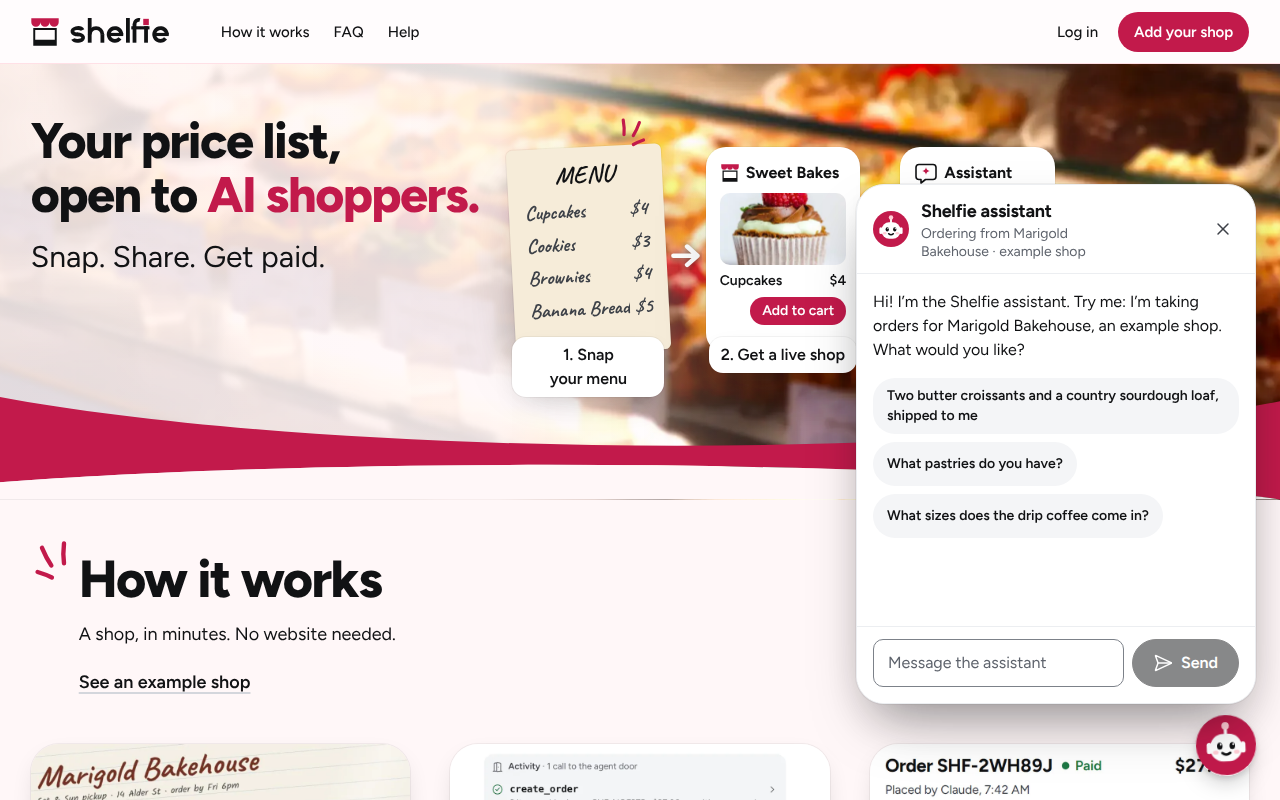
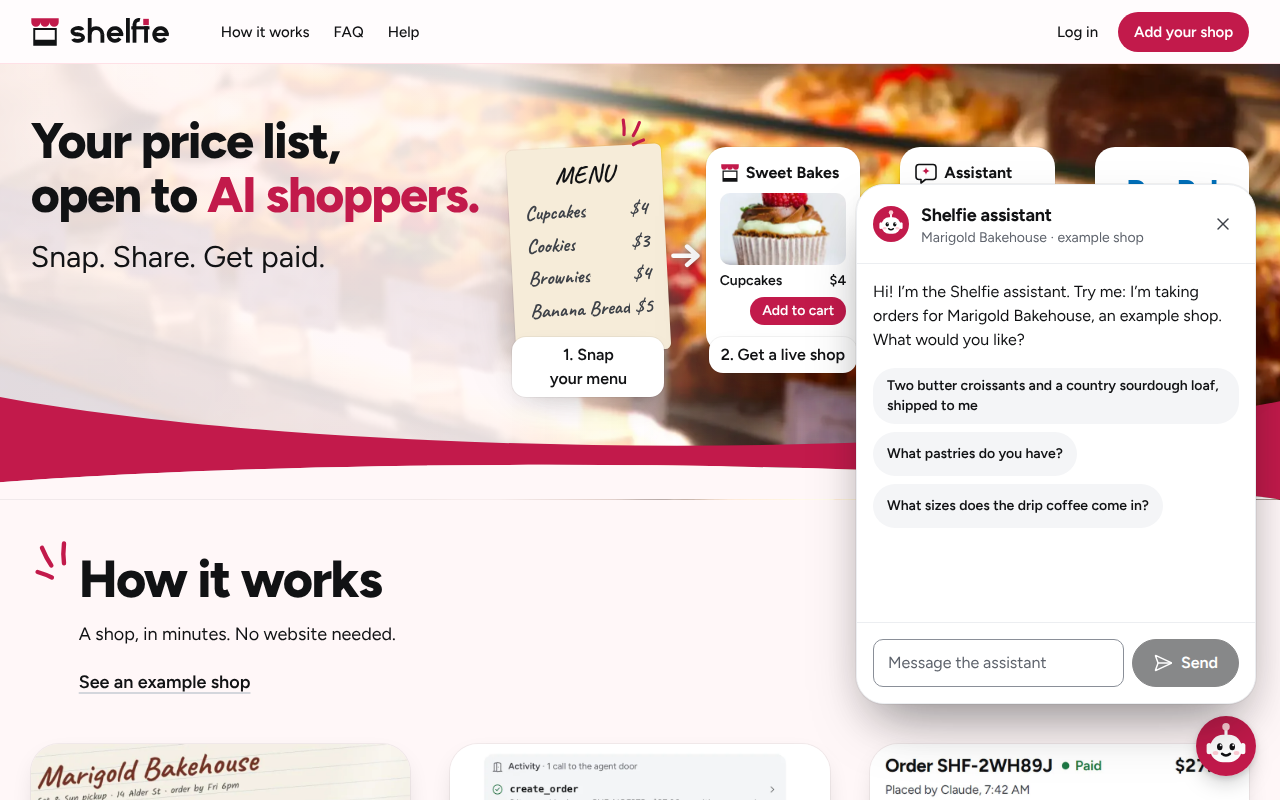
Home chat: 16 px vertical insets in header and footer, one-line desktop subtitle, re-measured previews

diff --git a/src/components/landing/home-chat.css b/src/components/landing/home-chat.css
@@ -97,11 +97,11 @@ body:has([aria-controls="band-menu"][aria-expanded="true"]) [data-home-chat] { v
    sitting on the composer with an empty band above it (a long one still scrolls to its newest line); the starters are
    compact chips that wrap in rows; one 16 px inset on every side of every part; the message box and a full-size Send
    share one row. The shop page's dock keeps its own bottom-anchored log and full-width starters. */
-.home-chat-panel [data-assistant-header] { min-height: 0; padding: 0.75rem 1rem; gap: 0.75rem; }
+.home-chat-panel [data-assistant-header] { min-height: 0; padding: 1rem; gap: 0.75rem; }
 .home-chat-panel [data-assistant-header] > button { margin-right: -0.375rem; }
 .home-chat-panel [data-assistant-log] { justify-content: flex-start; }
 .home-chat-panel [data-assistant-header] + div { padding: 1rem; scrollbar-gutter: auto; }
-.home-chat-panel [data-assistant-footer] { padding: 0.75rem 1rem 1rem; }
+.home-chat-panel [data-assistant-footer] { padding: 1rem; }
 .home-chat-panel [data-starters] { flex-direction: row; flex-wrap: wrap; gap: 0.5rem; }
 .home-chat-panel [data-starters] > li { max-width: 100%; }
 .home-chat-panel [data-starters] button {

diff --git a/src/components/landing/HomeChat.tsx b/src/components/landing/HomeChat.tsx
@@ -170,7 +170,8 @@ export function HomeChat({ shop, autoOpen }: { shop: HomeChatShop; autoOpen: boo
       inputRef={inputRef}
       takesOrders
       onClose={hide}
-      subtitle={`Ordering from ${shop.name}\u00a0·\u00a0example shop`}
+      // The desktop panel's header keeps to one line (the greeting already says it takes orders); the phone sheet keeps its wording.
+      subtitle={isDesktop ? `${shop.name}\u00a0·\u00a0example shop` : `Ordering from ${shop.name}\u00a0·\u00a0example shop`}
       mark={<BotMark className="size-9" />}
       greeting={greeting}
       closeLabel="Close the chat"

diff --git a/e2e/home-chat.spec.ts b/e2e/home-chat.spec.ts
@@ -108,7 +108,7 @@ test.describe('at 1440 px', () => {
     await launcher.click();
     const chat = panel(page);
     await expect(chat).toBeVisible();
-    await expect(chat.getByText('Ordering from Marigold Bakehouse · example shop')).toBeVisible();
+    await expect(chat.getByText('Marigold Bakehouse · example shop', { exact: true })).toBeVisible();
     await expect(chat.getByText(GREETING)).toBeVisible();
     const starters = chat.getByRole('list', { name: 'Try asking' }).getByRole('button');
     expect(await starters.count()).toBeGreaterThanOrEqual(2);

diff --git a/docs/judge/chat-r8.md b/docs/judge/chat-r8.md
@@ -15,11 +15,11 @@ padding). The h1 rect is its box (`w-fit` since this run, so it is the text's ex
 
 | Viewport | Panel w x h | Header / log / footer h | Padding header · log · footer | Greeting gap | Starter chips (w/lines) | Box + Send | Right/bottom edges | h1 rect vs panel |
 |---|---|---|---|---|---|---|---|---|
-| 1280x800 | 400 x 520 | 89 / 352 / 77 | 12px/16px/12px/16px · 16px/16px/16px/16px · 12px/16px/16px/16px | 16 | 366 px/2 lines, 204 px/1 line, 290 px/1 line | 251x48 + 107x48, one row: yes | panel 24/96, launcher 24/24 | 31..479 x 115..223: clear |
-| 1440x900 | 400 x 520 | 89 / 352 / 77 | 12px/16px/12px/16px · 16px/16px/16px/16px · 12px/16px/16px/16px | 16 | 366 px/2 lines, 204 px/1 line, 290 px/1 line | 251x48 + 107x48, one row: yes | panel 24/96, launcher 24/24 | 35..538 x 120..241: clear |
-| 1920x1080 | 400 x 520 | 89 / 352 / 77 | 12px/16px/12px/16px · 16px/16px/16px/16px · 12px/16px/16px/16px | 16 | 366 px/2 lines, 204 px/1 line, 290 px/1 line | 251x48 + 107x48, one row: yes | panel 24/96, launcher 24/24 | 280..783 x 120..241: clear |
-| 1366x657 | 400 x 441 | 89 / 273 / 77 | 12px/16px/12px/16px · 16px/16px/16px/16px · 12px/16px/16px/16px | 16 | 366 px/2 lines, 204 px/1 line, 290 px/1 line | 251x48 + 107x48, one row: yes | panel 24/96, launcher 24/24 | 33..512 x 119..234: clear |
-| 1024x768 | 400 x 520 | 89 / 352 / 77 | 12px/16px/12px/16px · 16px/16px/16px/16px · 12px/16px/16px/16px | 16 | 366 px/2 lines, 204 px/1 line, 290 px/1 line | 251x48 + 107x48, one row: yes | panel 24/96, launcher 24/24 | 25..492 x 105..217: clear |
+| 1280x800 | 400 x 520 | 79 / 358 / 81 | 16px · 16px · 16px (all sides) | 16 | 366 px/2 lines, 204 px/1 line, 290 px/1 line | 251x48 + 107x48, one row: yes | panel 24/96, launcher 24/24 | 31..479 x 115..223: clear |
+| 1440x900 | 400 x 520 | 79 / 358 / 81 | 16px · 16px · 16px (all sides) | 16 | 366 px/2 lines, 204 px/1 line, 290 px/1 line | 251x48 + 107x48, one row: yes | panel 24/96, launcher 24/24 | 35..538 x 120..241: clear |
+| 1920x1080 | 400 x 520 | 79 / 358 / 81 | 16px · 16px · 16px (all sides) | 16 | 366 px/2 lines, 204 px/1 line, 290 px/1 line | 251x48 + 107x48, one row: yes | panel 24/96, launcher 24/24 | 280..783 x 120..241: clear |
+| 1366x657 | 400 x 441 | 79 / 279 / 81 | 16px · 16px · 16px (all sides) | 16 | 366 px/2 lines, 204 px/1 line, 290 px/1 line | 251x48 + 107x48, one row: yes | panel 24/96, launcher 24/24 | 33..512 x 119..234: clear |
+| 1024x768 | 400 x 520 | 79 / 358 / 81 | 16px · 16px · 16px (all sides) | 16 | 366 px/2 lines, 204 px/1 line, 290 px/1 line | 251x48 + 107x48, one row: yes | panel 24/96, launcher 24/24 | 25..492 x 105..217: clear |
 | 390x844 | 390 x 717 | 85 / 559 / 73 | 10px/20px/10px/20px · 16px/20px/16px/20px · 12px/20px/12px/20px | 291 | 335 px/2 lines, 335 px/1 line, 335 px/1 line | 235x48 + 107x44, one row: yes | panel 0/0, launcher 20/20 | 20..343 x 92..170: overlaps |
 
 Notes:
@@ -29,7 +29,7 @@ Notes:
 - 1366 x 657: the panel is shortened to 441 px so it stays under the sticky header (its top is 120, header bottom 64);
   it does not auto-open on a screen under 700 px tall (unchanged).
 - 1024 x 768: before `w-fit` the h1 box spanned 25..1000 and met the panel, though its text ended at 492; now clear.
-- Proportions: header 17 %, log 68 %, footer 15 % of the 520 px panel.
+- Proportions: header 15 %, log 69 %, footer 16 % of the 520 px panel.
 - 390 x 844 is the phone bottom sheet, unchanged by design (it is a modal sheet over the hero, so the h1 overlap is
   expected; its log stays bottom-anchored near the thumb).
 - With a conversation (recorded first turn replayed), the log scrolls (scrollHeight 562 in a 296 px viewport) and the
@@ -40,3 +40,13 @@ h1; greeting within 20 px of the header; right edges equal; box and Send bottom-
 no starter chip taller than 60 px.
 
 Screens: `docs/preview/chat-1280.png`, `chat-1440.png`, `chat-1920.png`, `chat-390.png` (production build).
+
+## Fix round (after the independent check)
+
+The checker found 12 px vertical padding in the header and footer (brief: 16 to 20 px) and a 89 px header because the
+subtitle wrapped. Now the header and footer pad 16 px on every side and the desktop subtitle is "Marigold Bakehouse ·
+example shop" on one line: header 89 -> 79 px, footer 77 -> 81 px, log 352 -> 358 px (273 -> 279 px at 1366x657, where
+the content is now 280 px in a 279 px log, a sub-pixel difference instead of 7 px clipped). The table above is the
+re-measured state (production build, `/tmp/r8fix/m.mjs`). Unchanged and deliberate: the panel ends 96 px from the
+bottom, stacked 12 px above the launcher (shared right edge, 24 px); it covers the lower part of the hero's step chain
+at 1024 to 1440 px (not the h1), as the old panel did. Phone sheet (390x844): unchanged (header 85, Send 44).

diff --git a/docs/DESIGN.md b/docs/DESIGN.md
@@ -231,7 +231,7 @@ Built from the owner's reference image (run 6), and the one place the rules abov
 - **Type:** body at least 16 px on phones and 18 px from 1280 px, meta at least 14 px. The handwriting on the paper menu (Caveat) is the only other typeface, and only there.
 - **Icons and step images:** How it works shows no icons: each step has one focal region of Shelfie itself, cropped about 480 CSS px wide so its text reads at every width (`public/landing/step-*.webp`, 960×720, 4:3, rounded `rounded-2xl` frame with `shadow-md`, lazy `<img>` with width and height), stacked above its text up to `lg` (at most `max-w-md`) and in three columns from `lg`, since three columns at `md` shrink the frames below the phone's. Re-shoot them from the app if those screens change. `landing/art.tsx` keeps the accent marks and the hero's assistant mark: a neutral speech bubble and spark, never an AI company's mark; PayPal appears as blue text.
 - **Sound switch:** the footer's control reads `Sound on` / `Sound off` beside its speaker icon, in an outlined 44 px pill; its accessible name is `Sound` with `aria-pressed`.
-- **Home chat:** a round pomegranate launcher at the bottom right (above `env(safe-area-inset-bottom)`) with Shelfie's own bot drawing (`landing/BotMark.tsx`: white head, ink eyes, blush cheeks and antenna; never a stock icon or an AI company's mark) and an ink unread dot until first opened. It opens the real buyer console for the example shop: a 400 x 520 panel anchored above it from 1024 px, right-aligned with the launcher and 12 px above it (its log reads from the top while the conversation is short, the starters are wrapping chips, one 16 px inset on every side, the message box and a 48 px Send on one row; it never covers the hero headline; auto-opens once per session after 4 s, never taking focus, and only on screens at least 700 px tall; its height stops short of the sticky header), a bottom sheet below 1024 px, where a speech bubble ("Hi! Want to try ordering?") replaces the auto-open. The footer gains bottom padding on the home page so its last row (the Sound switch) ends above the launcher. Entrances are CSS opacity/transform only.
+- **Home chat:** a round pomegranate launcher at the bottom right (above `env(safe-area-inset-bottom)`) with Shelfie's own bot drawing (`landing/BotMark.tsx`: white head, ink eyes, blush cheeks and antenna; never a stock icon or an AI company's mark) and an ink unread dot until first opened. It opens the real buyer console for the example shop: a 400 x 520 panel anchored above it from 1024 px, right-aligned with the launcher and 12 px above it (its log reads from the top while the conversation is short, the starters are wrapping chips, one 16 px inset on every side, a one-line subtitle "<shop> · example shop" (the phone sheet keeps "Ordering from <shop> · example shop"), the message box and a 48 px Send on one row; it never covers the hero headline; auto-opens once per session after 4 s, never taking focus, and only on screens at least 700 px tall; its height stops short of the sticky header), a bottom sheet below 1024 px, where a speech bubble ("Hi! Want to try ordering?") replaces the auto-open. The footer gains bottom padding on the home page so its last row (the Sound switch) ends above the launcher. Entrances are CSS opacity/transform only.
 
 ## Rules
 

diff --git a/docs/DECISIONS.md b/docs/DECISIONS.md
@@ -340,3 +340,5 @@ Brainstorming questions were answered by the coordinator from CLAUDE.md, docs/ID
 - **One 16 px inset on every side of the home panel's header, log and footer, and the Send button is 48 px tall to match the message box.** Reason: the 20/10 px mix looked uneven in a 400 px panel, and a shorter Send beside the box read as squeezed.
 - **The hero `h1` is `w-fit`.** Reason: as a block it spanned the whole row at 1024 px, so its box met the chat panel although its text ends 108 px left of it; the text does not move.
 - **`data-assistant-log` on AssistantShell's scroller content and `data-starters` on the starter list.** Reason: stable hooks for the home chat's scoped CSS, with no visual change to the shop's console.
+- **The home panel's header and footer pad 16 px top and bottom too (were 12 px), and its subtitle reads "Marigold Bakehouse · example shop" on the desktop panel ("Ordering from …" stays on the phone sheet).** Reason: the checker measured 12 px vertical insets against the brief's 16 to 20 px, and the longer subtitle wrapped to two lines at 400 px, making the header 89 px; now the header is 79 px on one line, the log gains 6 px and the 1366x657 log no longer clips its last chip's padding.
+- **The open desktop panel may cover the lower part of the hero's step chain (not the headline); its bottom sits 12 px above the launcher rather than on the launcher's bottom inset.** Reason: a 400 x 520 panel cannot clear the four cards at 1024 to 1440 px without shrinking under the brief's size, the old panel covered them too, and it closes with one click or Esc; stacking above the launcher keeps both visible in one right-aligned column.
